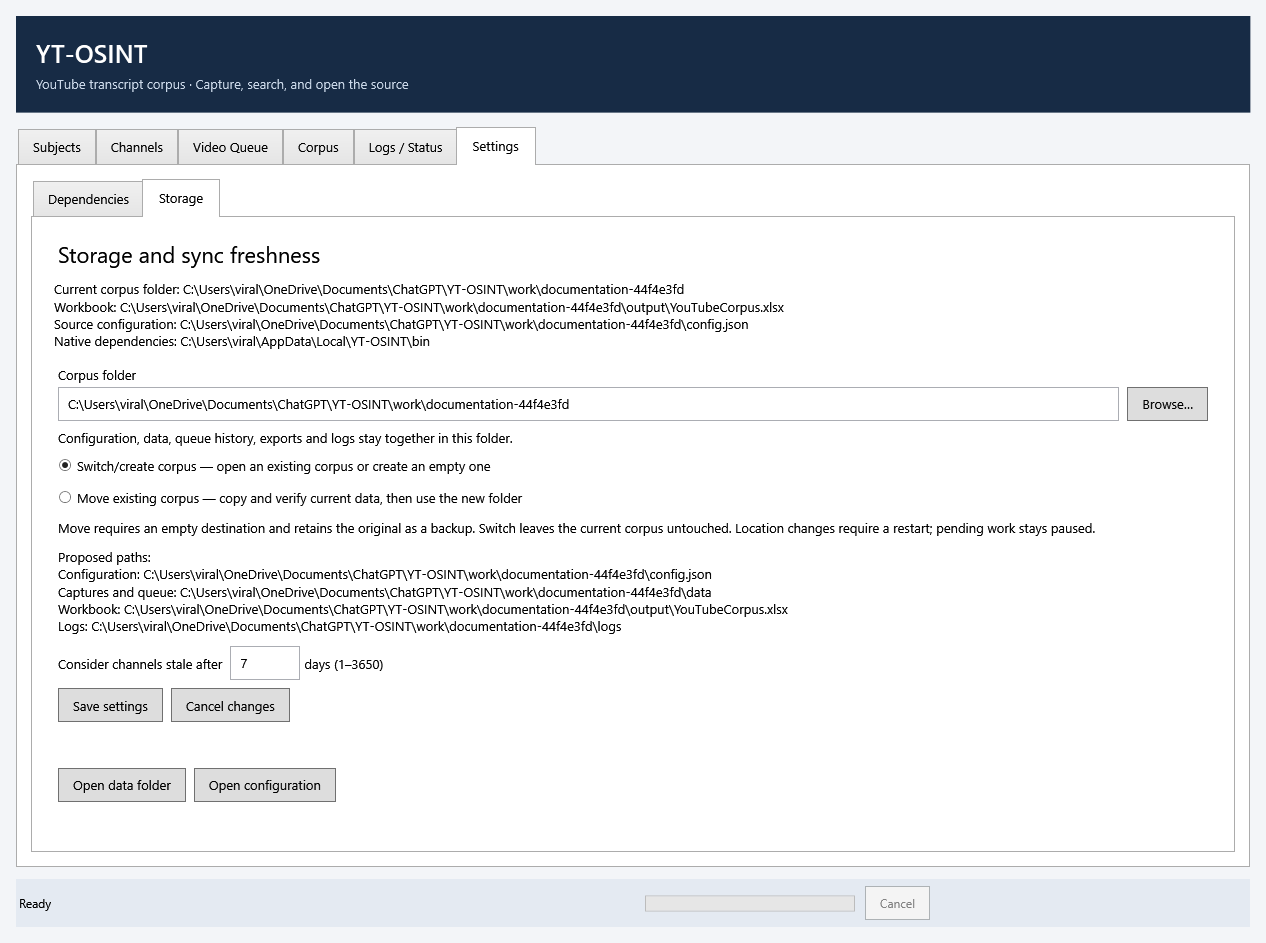
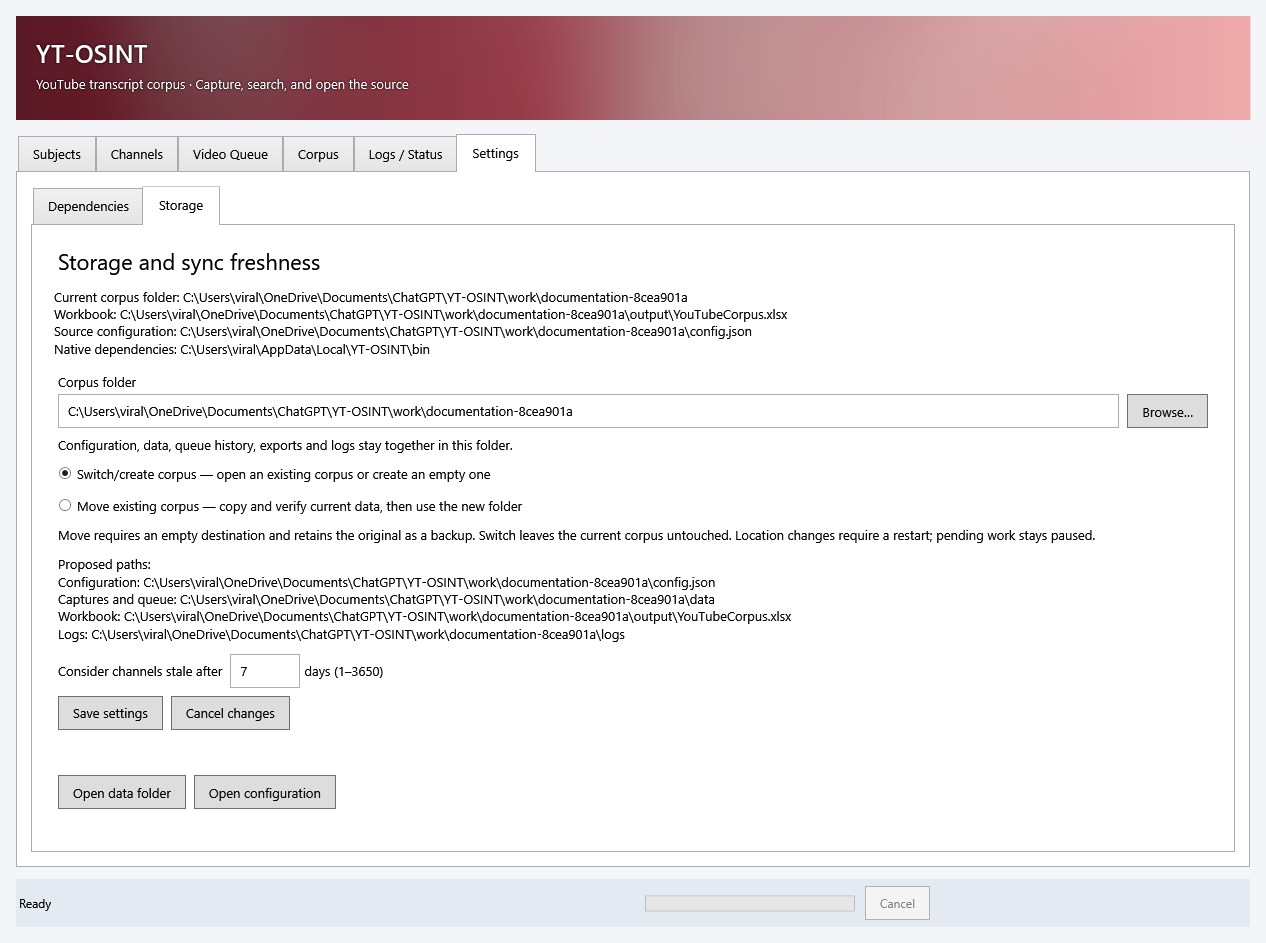
Add branded header and estimated publication date queue review

Changed region(s): [[0.0, 0.0, 1.0, 0.8611], [0.8934, 0.3998, 0.955, 0.4613]]

diff --git a/src/Corpus.Gui.xaml b/src/Corpus.Gui.xaml
@@ -1,4 +1,4 @@
-<Window xmlns="http://schemas.microsoft.com/winfx/2006/xaml/presentation" xmlns:x="http://schemas.microsoft.com/winfx/2006/xaml" xmlns:q="clr-namespace:YouTubeCorpus;assembly=QueueViewAssembly" Title="YT-OSINT | YouTube Corpus" Width="1280" Height="820" MinWidth="1000" MinHeight="680" WindowStartupLocation="CenterScreen" Background="#F3F5F8" FontFamily="Segoe UI" FontSize="13">
+<Window xmlns="http://schemas.microsoft.com/winfx/2006/xaml/presentation" xmlns:x="http://schemas.microsoft.com/winfx/2006/xaml" xmlns:q="clr-namespace:YouTubeCorpus;assembly=QueueViewAssembly" Title="YT-OSINT | YouTube Corpus" Width="1280" Height="820" MinWidth="1000" MinHeight="680" WindowStartupLocation="CenterScreen" Background="#F3F5F8" FontFamily="Segoe UI" FontSize="13">
 <Window.Resources>
 <Style TargetType="Button"><Setter Property="Padding" Value="14,7"/><Setter Property="Margin" Value="4"/><Setter Property="MinHeight" Value="34"/></Style>
 <Style TargetType="TextBox"><Setter Property="Padding" Value="7"/><Setter Property="Margin" Value="4"/><Setter Property="MinHeight" Value="34"/></Style>
@@ -7,7 +7,11 @@
 <Style TargetType="TabItem"><Setter Property="Padding" Value="15,9"/></Style>
 </Window.Resources>
 <DockPanel Margin="16">
-<Border DockPanel.Dock="Top" Background="#172B45" Padding="20" Margin="0,0,0,14"><StackPanel><TextBlock Text="YT-OSINT" FontSize="25" FontWeight="SemiBold" Foreground="White"/><TextBlock Text="YouTube transcript corpus · Capture, search, and open the source" Foreground="#CBD8E9" Margin="0,6,0,0"/></StackPanel></Border>
+<Border x:Name="BrandHeader" DockPanel.Dock="Top" Height="104" Background="#B51E34" Margin="0,0,0,14" ClipToBounds="True"><Grid>
+<Image x:Name="HeaderArtwork" Stretch="UniformToFill"/>
+<Border><Border.Background><LinearGradientBrush StartPoint="0,0" EndPoint="1,0"><GradientStop Color="#B0201018" Offset="0"/><GradientStop Color="#40201018" Offset="0.6"/><GradientStop Color="#00201018" Offset="1"/></LinearGradientBrush></Border.Background></Border>
+<StackPanel Margin="20"><StackPanel.Effect><DropShadowEffect Color="#180810" BlurRadius="4" ShadowDepth="1" Opacity="1"/></StackPanel.Effect><TextBlock Text="YT-OSINT" FontSize="25" FontWeight="SemiBold" Foreground="White"/><TextBlock Text="YouTube transcript corpus &#xB7; Capture, search, and open the source" Foreground="White" Margin="0,6,0,0" TextWrapping="Wrap"/></StackPanel>
+</Grid></Border>
 <StatusBar DockPanel.Dock="Bottom" Margin="0,12,0,0" Background="#E4EAF2"><StatusBarItem><TextBlock x:Name="Status" Text="Starting…" Width="620" TextTrimming="CharacterEllipsis"/></StatusBarItem><StatusBarItem><ProgressBar x:Name="Progress" Width="210" Height="16"/></StatusBarItem><StatusBarItem><Button x:Name="Cancel" Content="Cancel" IsEnabled="False"/></StatusBarItem></StatusBar>
 <TabControl x:Name="Tabs">
 <TabItem Header="Subjects"><Grid Margin="12"><Grid.ColumnDefinitions><ColumnDefinition Width="280" MinWidth="200"/><ColumnDefinition Width="8"/><ColumnDefinition Width="*"/></Grid.ColumnDefinitions>
@@ -38,6 +42,9 @@
 <TextBlock x:Name="QueueStatus" Text="Queue paused" Margin="4" TextWrapping="Wrap"/>
 <ProgressBar x:Name="QueueProgress" Height="8" Margin="4,6,4,8" Foreground="#176BC1"/>
 <TextBlock x:Name="QueueActivity" Text="Start lists every queued channel before downloading videos." Margin="4,0,4,8" TextWrapping="Wrap" Foreground="#52657A"/>
+<CheckBox x:Name="QueueReview" Content="Pause after channel discovery for review" IsChecked="True" Margin="8,4" ToolTip="Applied when Start is pressed. Discover all queued channels, then pause before downloading. Press Start again after reviewing."/>
+<WrapPanel><TextBlock Text="Est. publish date before" VerticalAlignment="Center" Margin="8,4"/><DatePicker x:Name="QueueBefore" Width="145" Margin="4"/><Button x:Name="QueueSelectBefore" Content="Select pending before date" ToolTip="Replace the selection with pending videos strictly before this date across all channels. Unknown dates stay unselected."/></WrapPanel>
+<TextBlock Text="Dates may be approximate. Unknown dates stay unselected; capture updates dates when available." Foreground="#52657A" Margin="8,4" TextWrapping="Wrap"/>
 <WrapPanel><Button x:Name="QueueRemove" Content="Remove selected pending items"/><Button x:Name="QueueRetry" Content="Retry selected"/><Button x:Name="QueueClear" Content="Clear finished" ToolTip="Clear completed, skipped, cancelled and failed rows. Pending/running work and captured files are preserved."/></WrapPanel>
 <TextBlock x:Name="QueueSelection" Margin="8,4"/>
 </StackPanel>
@@ -48,9 +55,10 @@
 <q:QueueGrid x:Name="QueueGrid" Style="{StaticResource {x:Type DataGrid}}" SelectionMode="Extended" SelectionUnit="FullRow" AutoGenerateColumns="False" Margin="4" RowHeight="36" ScrollViewer.CanContentScroll="True" VirtualizingPanel.IsVirtualizing="True" VirtualizingPanel.VirtualizationMode="Recycling"><DataGrid.Columns>
 <DataGridTemplateColumn Header="Status" SortMemberPath="Status" Width="140"><DataGridTemplateColumn.CellTemplate><DataTemplate><StackPanel Orientation="Horizontal" VerticalAlignment="Center" Margin="4" ToolTip="{Binding Detail}"><Border Width="20" Height="20" CornerRadius="10" Background="{Binding StatusColor}" Margin="0,0,7,0"><TextBlock Text="{Binding StatusGlyph}" Foreground="White" FontFamily="Segoe UI Symbol" FontWeight="Bold" HorizontalAlignment="Center" VerticalAlignment="Center"/></Border><TextBlock Text="{Binding StatusLabel}" VerticalAlignment="Center"/></StackPanel></DataTemplate></DataGridTemplateColumn.CellTemplate></DataGridTemplateColumn>
 <DataGridTextColumn Header="Video" Binding="{Binding Title}" Width="240"/>
+<DataGridTextColumn Header="Est. Publish Date" Binding="{Binding PublishedDateLabel}" SortMemberPath="EstPublishedDate" Width="140"/>
 <DataGridTextColumn Header="Subject" Binding="{Binding SubjectName}" Width="150"/>
-<DataGridTextColumn Header="URL" Binding="{Binding Url}" Width="250"/>
-<DataGridTextColumn Header="Details" Binding="{Binding Detail}" Width="*"/>
+<DataGridTextColumn Header="URL" Binding="{Binding Url}" Width="200"/>
+<DataGridTextColumn Header="Details" Binding="{Binding Detail}" Width="*" MinWidth="120"/>
 </DataGrid.Columns></q:QueueGrid>
 </DockPanel></TabItem>
 <TabItem Header="Corpus"><DockPanel Margin="12">

diff --git a/src/Corpus.QueueView.cs b/src/Corpus.QueueView.cs
@@ -62,6 +62,7 @@ namespace YouTubeCorpus
                 {
                     case "Status": return row.Status;
                     case "Title": return row.Title;
+                    case "EstPublishedDate": return row.EstPublishedDate;
                     case "SubjectName": return row.SubjectName;
                     case "Url": return row.Url;
                     case "Detail": return row.Detail;
@@ -73,6 +74,11 @@ namespace YouTubeCorpus
                 var a = (QueueRow)x; var b = (QueueRow)y;
                 foreach (var sort in sorts)
                 {
+                    if (sort.PropertyName == "EstPublishedDate")
+                    {
+                        bool aUnknown = String.IsNullOrEmpty(a.EstPublishedDate), bUnknown = String.IsNullOrEmpty(b.EstPublishedDate);
+                        if (aUnknown != bUnknown) return aUnknown ? 1 : -1;
+                    }
                     int result = culture.Compare(Value(a, sort.PropertyName), Value(b, sort.PropertyName), CompareOptions.None);
                     if (result != 0) return sort.Direction == ListSortDirection.Ascending ? result : -result;
                 }
@@ -91,6 +97,19 @@ namespace YouTubeCorpus
             var rows = new QueueRow[Math.Min(count, Items.Count)];
             for (int i = 0; i < rows.Length; i++) rows[i] = (QueueRow)Items[i];
             SelectRows(rows);
+        }
+        public void SelectPendingBefore(DateTime cutoff)
+        {
+            string limit = cutoff.ToString("yyyy-MM-dd", CultureInfo.InvariantCulture);
+            BeginUpdateSelectedItems();
+            try
+            {
+                SelectedItems.Clear();
+                foreach (QueueRow row in Items)
+                    if (row.Status == "Pending" && !String.IsNullOrEmpty(row.EstPublishedDate) && StringComparer.Ordinal.Compare(row.EstPublishedDate, limit) < 0)
+                        SelectedItems.Add(row);
+            }
+            finally { EndUpdateSelectedItems(); }
         }
         internal void ReplaceRows(QueueRows source, List<QueueRow> replacement)
         {
@@ -114,6 +133,7 @@ namespace YouTubeCorpus
     // The authoritative writer continues to preserve every persisted field.
     public sealed class QueueItemData
     {
+        public string EstPublishedDate { get; set; }
         public string Id { get; set; }
         public string VideoId { get; set; }
         public string SubjectId { get; set; }
@@ -137,6 +157,7 @@ namespace YouTubeCorpus
     }
     public sealed class QueueDocument
     {
+        public bool AwaitingReview { get; set; }
         public int SchemaVersion { get; set; }
         public bool Paused { get; set; }
         public QueueItemData[] Items { get; set; }
@@ -146,6 +167,8 @@ namespace YouTubeCorpus
     // Snapshot instances belong to the reader. Bound rows belong only to the dispatcher.
     public sealed class QueueRow : INotifyPropertyChanged
     {
+        public string EstPublishedDate { get; private set; }
+        public string PublishedDateLabel { get { return String.IsNullOrEmpty(EstPublishedDate) ? "Unknown" : EstPublishedDate; } }
         public string Id { get; private set; }
         public string VideoId { get; private set; }
         public string SubjectId { get; private set; }
@@ -166,29 +189,37 @@ namespace YouTubeCorpus
         public event PropertyChangedEventHandler PropertyChanged;
         public QueueRow(PSObject item)
         {
+            EstPublishedDate = NormalizeDate(Text(item, "EstPublishedDate"));
             Id = Text(item, "Id"); VideoId = Text(item, "VideoId"); SubjectId = Text(item, "SubjectId");
             Title = Text(item, "Title"); SubjectName = Text(item, "SubjectName"); Url = Text(item, "Url");
             Detail = Text(item, "Detail"); Status = Text(item, "Status");
         }
         internal QueueRow(QueueItemData item)
         {
+            EstPublishedDate = NormalizeDate(item.EstPublishedDate);
             Id = item.Id ?? ""; VideoId = item.VideoId ?? ""; SubjectId = item.SubjectId ?? "";
             Title = item.Title ?? ""; SubjectName = item.SubjectName ?? ""; Url = item.Url ?? "";
             Detail = item.Detail ?? ""; Status = item.Status ?? "";
         }
         internal QueueRow Copy() { return (QueueRow)MemberwiseClone(); }
+        private static string NormalizeDate(string value)
+        {
+            DateTime date;
+            return DateTime.TryParseExact(value, "yyyy-MM-dd", CultureInfo.InvariantCulture, DateTimeStyles.None, out date) ? value : "";
+        }
         internal static string Text(PSObject item, string name)
         {
             var property = item.Properties[name]; return property == null ? "" : Convert.ToString(property.Value);
         }
         internal bool Same(QueueRow other)
         {
-            return Title == other.Title && SubjectName == other.SubjectName && Url == other.Url &&
+            return EstPublishedDate == other.EstPublishedDate && Title == other.Title && SubjectName == other.SubjectName && Url == other.Url &&
                 Detail == other.Detail && Status == other.Status && SubjectId == other.SubjectId && VideoId == other.VideoId;
         }
         internal void Update(QueueRow other)
         {
             bool statusChanged = Status != other.Status;
+            if (EstPublishedDate != other.EstPublishedDate) { EstPublishedDate = other.EstPublishedDate; Notify("EstPublishedDate"); Notify("PublishedDateLabel"); }
             if (Title != other.Title) { Title = other.Title; Notify("Title"); }
             if (SubjectName != other.SubjectName) { SubjectName = other.SubjectName; Notify("SubjectName"); }
             if (Url != other.Url) { Url = other.Url; Notify("Url"); }

diff --git a/README.md b/README.md
@@ -86,6 +86,8 @@ Cooldown deadlines and retry counts are saved in `%LOCALAPPDATA%\YT-OSINT\youtub
 
 ### Current interface
 
+The header uses the bundled red-and-white artwork with white text, a dark text shadow, and a translucent gradient for contrast. The image scales to fill the header without distorting its proportions.
+
 Fresh screenshots from the real WPF application with isolated sample data and simulated queue states (no personal corpus or network requests):
 
 ![Subjects sorted alphabetically with channels above the subject-specific batch importer](docs/screenshots/subjects.png)
@@ -109,6 +111,8 @@ Large queues have a separate background snapshot reader and a compiled, lightwei
 The main Cancel button applies to a foreground operation such as search. The queue has one **Start / Pause** control at its bottom right: Pause finishes the active discovery or video safely, shows **Pausing…**, and starts nothing else. Channel-specific cancellation remains available on Channels. Closing can terminate the active child process tree where practical. Completed atomic commits survive. Excel cancellation is checked between rows/stages; the final EPPlus save is not interruptible mid-write. The application stays interactive and honors cancellation at the next safe boundary. Closing during work requests cancellation and waits for safe cleanup. Only one capture/export writer and one queue runner can operate on a corpus. Queue and subject changes share a separate short file lock, so downloads do not block configuration edits. Closing during a queued import returns the interrupted item to Pending and saves the queue paused. Abandoned Running items are recovered to Pending when no queue runner owns them; the next launch requires an explicit resume.
 
 ## Queue selection, status, and storage settings
+
+**Pause after channel discovery for review** is enabled by default. Queue your channels and press Start to list them all; the queue pauses before video capture. Sort **Est. Publish Date**, choose a cutoff, and use **Select pending before date**, then **Remove selected pending items** to prune older videos across channels. Press Start again to capture the remaining work. Unknown dates stay unselected. Dates from discovery can be inaccurate; cached or captured publication dates replace them when available. This uses fast channel listings without an additional metadata request per video. Uncheck the review option before starting for uninterrupted processing. Sorting changes the display only; the cutoff is not a saved exclusion rule for future syncs. See the [review workflow](docs/QUEUE.md#review-older-videos-before-capture).
 
 Start lists **all** queued channels before processing any video, including earlier batch URLs. Discovery and downloads stay sequential. New channels added during a download are listed after that item and before the next video. Discovery failures are reported and resolved without a later automatic retry; rate limits pause the queue and leave discovery pending. Queue-local progress shows channels listed/resolved during discovery, then finished/pending/downloading/failed counts for the visible video list. Clearing rows changes those visible-list counts. These counts are not an ETA.
 

diff --git a/docs/QUEUE.md b/docs/QUEUE.md
@@ -20,6 +20,14 @@ Each job and video stores stable subject IDs. Changing UI selection never reassi
 
 ## Manage work
 
+### Review older videos before capture
+
+**Pause after channel discovery for review** is checked by default each time the window opens. The choice applies when Start is pressed and cannot be changed while that worker is running. Start lists every queued channel, then pauses before claiming a video. Sort **Est. Publish Date** oldest-first or newest-first, review the list, and press Start again to capture the remaining videos. Adding more channels and starting again discovers those channels and pauses for another review. Uncheck the option before starting for uninterrupted discovery and downloads. Batch-only work without new channel discovery starts normally.
+
+Discovery uses yt-dlp's `youtubetab:approximate_date` option. Dates are estimates from the fast listing, displayed as `YYYY-MM-DD`; unavailable or invalid dates display **Unknown** and sort last in both directions. No per-video metadata requests are added during discovery. Cached or subsequently captured publication dates replace estimates when available, under the same **Est. Publish Date** heading. Precise dates remain available in captured corpus metadata. Estimates are suitable for pruning clearly older material, not precise date-boundary decisions. See [yt-dlp's extractor documentation](https://github.com/yt-dlp/yt-dlp#youtubetab-youtube-playlists-channels-feeds-etc).
+
+Choose a date and press **Select pending before date** to replace the selection with pending videos strictly before that date across all channels. Videos on the cutoff date, unknown dates, and running/finished videos stay unselected. Review the selection count, then use **Remove selected pending items**. This marks affected channel attempts partial; it does not delete captured files. Clearing cancelled rows preserves the partial result. The cutoff selects rows for this attempt; it is not a saved exclusion rule, and a future channel sync can re-add them. Sorting changes the display order only, not download order.
+
 | Control | Behavior |
 |---|---|
 | ▶ Start / ⏸ Pause | One button at the bottom right controls the entire list. Start discovers all queued channels before downloading videos. Pause finishes the active discovery/download safely, displays disabled **Pausing…**, and starts nothing else. Once idle, the button says Start; it is disabled when no work remains. |

diff --git a/docs/VALIDATION.md b/docs/VALIDATION.md
@@ -87,6 +87,10 @@ Channel tests cover subject protection before discovery, duplicate job rejection
 
 ## Queue redesign and storage acceptance
 
+Branding and date-review coverage checks the real header image loading and fixed height, ascending/descending **Est. Publish Date** sorting with unknowns last, the actual date-picker selection action, automatic review pause after all channels are discovered, and explicit resume into capture. Fixture tests cover shared batch date enrichment, invalid dates, strict cutoff boundaries, completed-row exclusion, captured-date replacement, cached-date precedence, and partial results surviving removal and clearing across shared channel jobs. `Invoke-UnifiedQueueIntegration.ps1` explicitly disables the review option to retain its uninterrupted-scheduling scenario; `Invoke-DiscoveryQueueIntegration.ps1` verifies the default review workflow. Screenshot fixtures include recent, old, and unknown publication dates.
+
+Local validation on 2026-09-27 for branding and date review: PowerShell source parsing, all 150 fixture tests, and all seven WPF integration scripts passed. The performance script used 12,000 rows (P95 extra dispatcher delay 25.9 ms, maximum 234.4 ms, column sort 46.5 ms). Acquisition was simulated; this run did not test live YouTube date availability or accuracy.
+
 The fixture suite verifies discovery before even older batch URLs, shared video deduplication across discovered channels, discovery of channels added mid-download, and safe pause/resume between discoveries. Clear-finished tests cover every terminal state, shared active jobs, repeated clearing, persistence/reload, accurate failure totals, preserved previous full-sync timestamps, and successful finalization after successful history is cleared. Progress tests distinguish discovery counts from visible video counts.
 
 `Invoke-DiscoveryQueueIntegration.ps1` tests the actual WPF Start/Pause/Pausing button, its bottom-right placement and action icons, discovery/download progress, every colored row badge, and clearing terminal rows during active downloads. It checks that no channel discovery is left behind the completed downloads and that cleared failures still produce partial channel outcomes.
